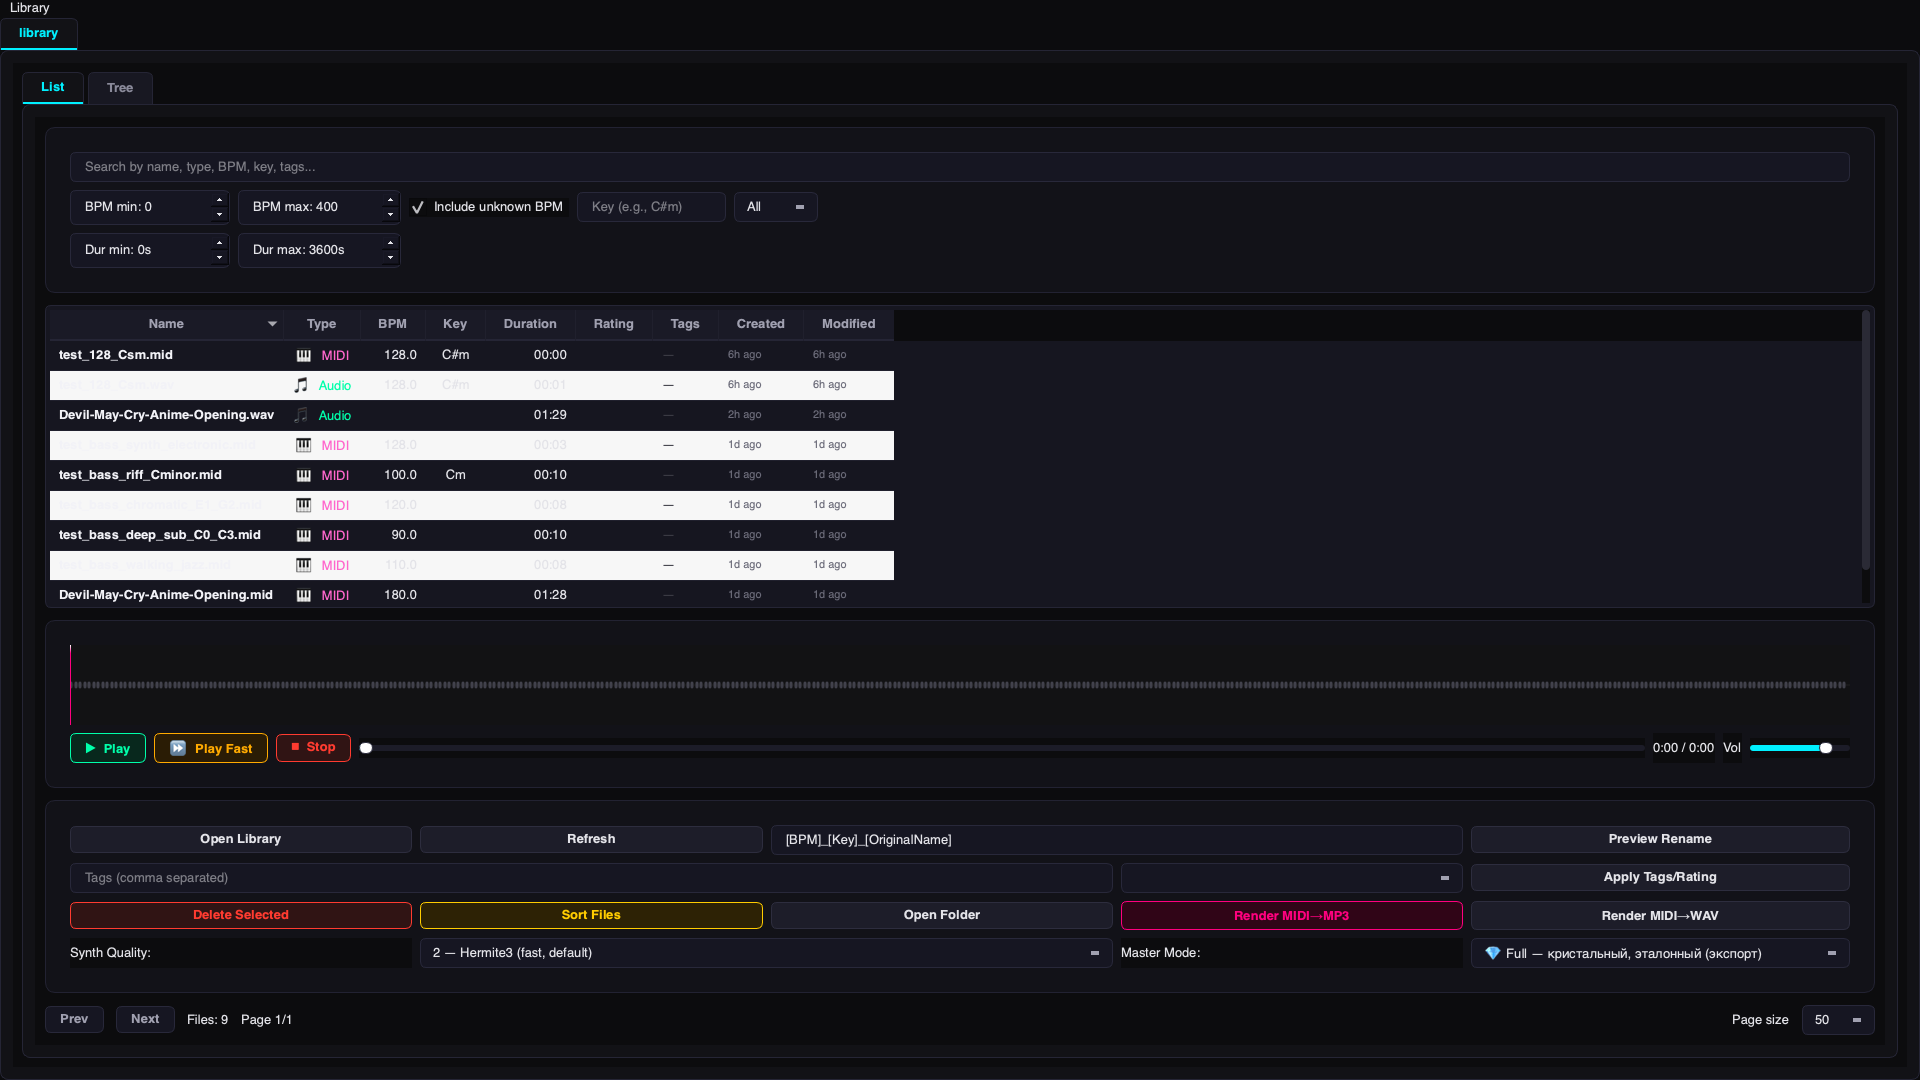
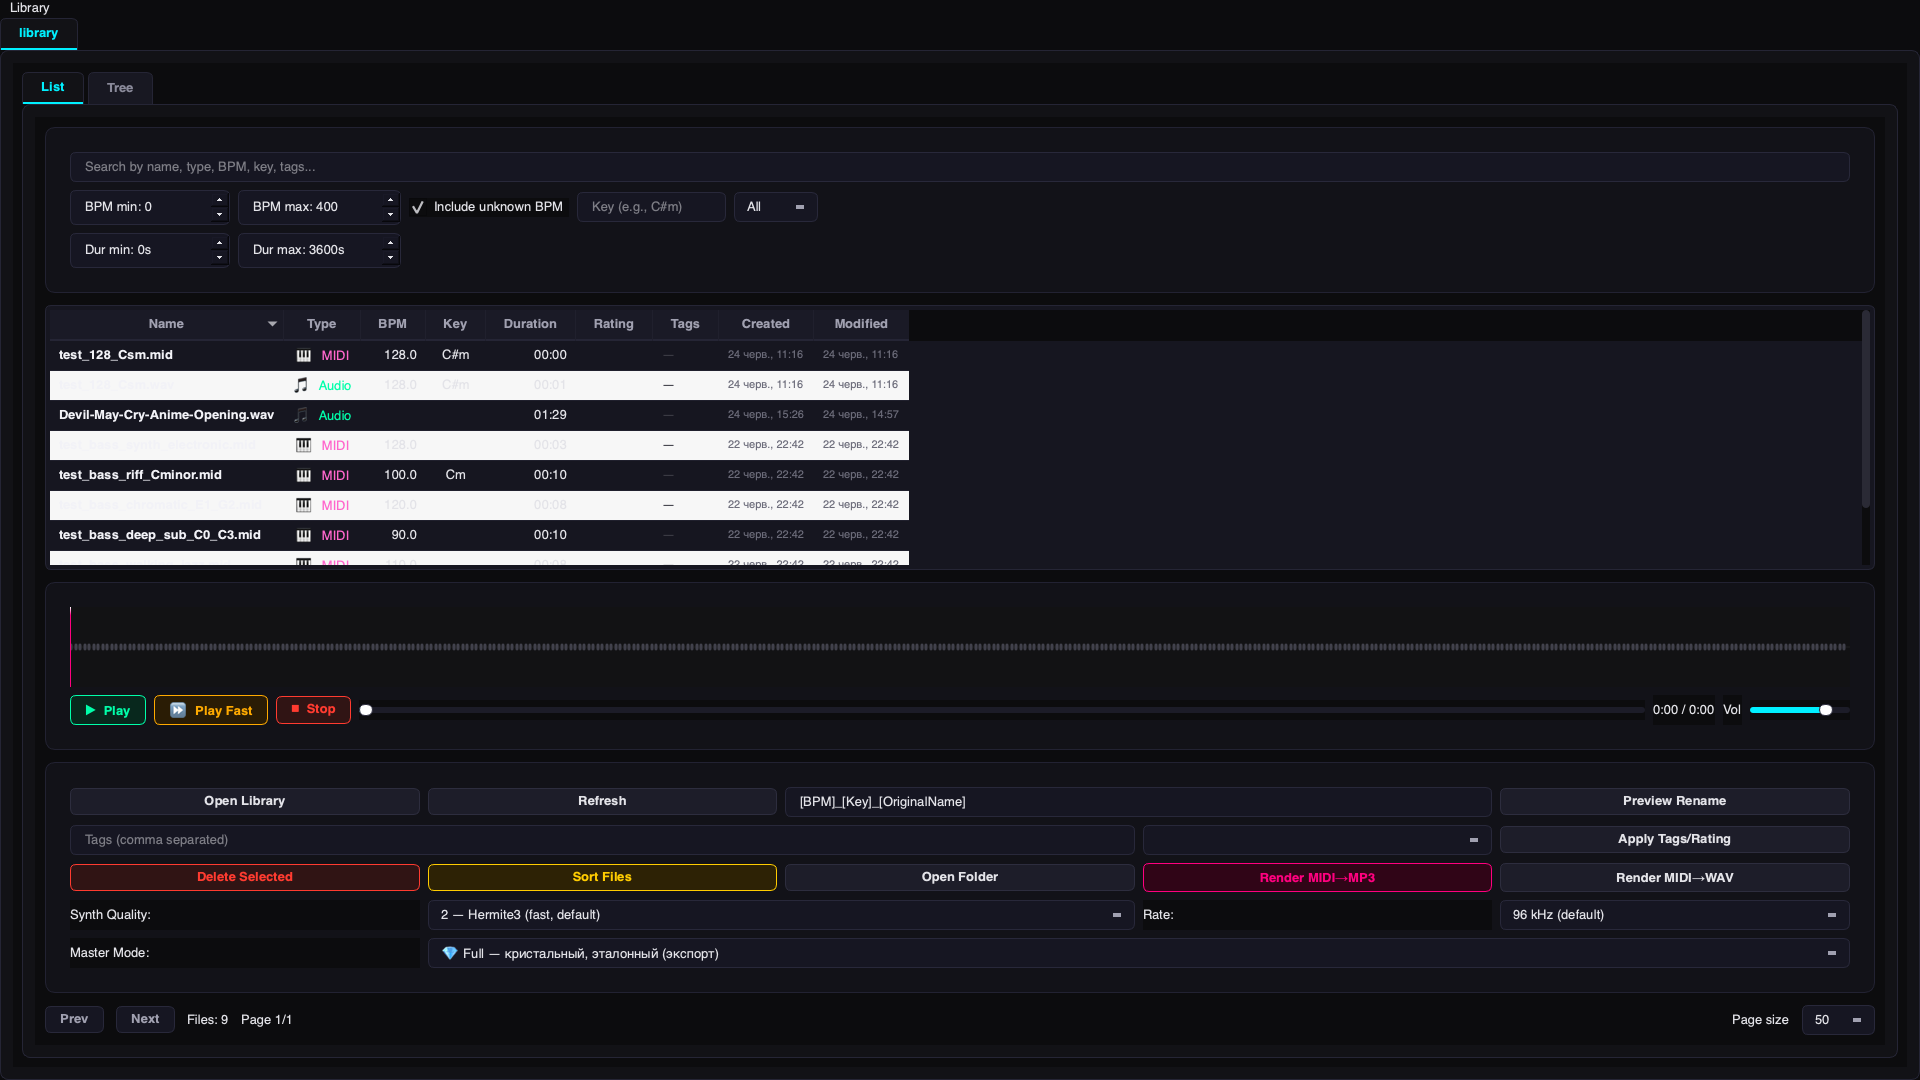
.

diff --git a/tests/test_midi_renderer.py b/tests/test_midi_renderer.py
@@ -48,9 +48,19 @@ MIDI_DIR = Path("/Volumes/External/Code/Birka/data/library/midi")
 def _read_wav_samples(wav_path: Path) -> tuple[int, int, int, np.ndarray]:
     """Return (channels, sampwidth, framerate, int data array).
 
-    Works for int16/int32 PCM. For IEEE_FLOAT (32-bit float) output use
-    _read_wav_float instead -- Python's wave module cannot read format 3.
+    Works for int16/int32 PCM. For IEEE_FLOAT (32-bit float) output,
+    automatically detects and loads it (converting samples to int16 to match
+    PCM expectations).
     """
+    with open(str(wav_path), "rb") as f:
+        header = f.read(44)
+    fmt_tag = struct.unpack_from("<H", header, 20)[0] if len(header) >= 22 else 1
+
+    if fmt_tag == 3:
+        ch, fr, float_data = _read_wav_float(wav_path)
+        int_data = (float_data * 32767.0).astype(np.int16)
+        return ch, 2, fr, int_data
+
     with wave.open(str(wav_path), "rb") as wf:
         ch = wf.getnchannels()
         sw = wf.getsampwidth()
@@ -265,7 +275,11 @@ class TestWavFormat(unittest.TestCase):
 
     def test_wav_is_16bit(self) -> None:
         wav = self.tmp / "out.wav"
-        self.assertTrue(render_midi_to_wav(MIDI_PATH, wav))
+        self.assertTrue(render_midi_to_wav(MIDI_PATH, wav, bit_depth=16))
+        with open(str(wav), "rb") as f:
+            header = f.read(44)
+        fmt_tag = struct.unpack_from("<H", header, 20)[0]
+        self.assertEqual(fmt_tag, 1, "Expected PCM format tag 1")
         _, sw, _, _ = _read_wav_samples(wav)
         self.assertEqual(sw, 2, "Expected 16-bit (2-byte) samples")
 

diff --git a/tests/test_media_table_model.py b/tests/test_media_table_model.py
@@ -33,7 +33,7 @@ class MediaTableModelTests(unittest.TestCase):
 
         self.assertEqual(model.data(index_duration, QtCore.Qt.ItemDataRole.DisplayRole), "01:05")
         self.assertEqual(model.data(index_bpm, QtCore.Qt.ItemDataRole.DisplayRole), "120.0")
-        self.assertEqual(model.data(index_rating, QtCore.Qt.ItemDataRole.DisplayRole), "4")
+        self.assertEqual(model.data(index_rating, QtCore.Qt.ItemDataRole.DisplayRole), "★★★★☆")
 
     def test_model_filters_rows(self) -> None:
         rows = [
